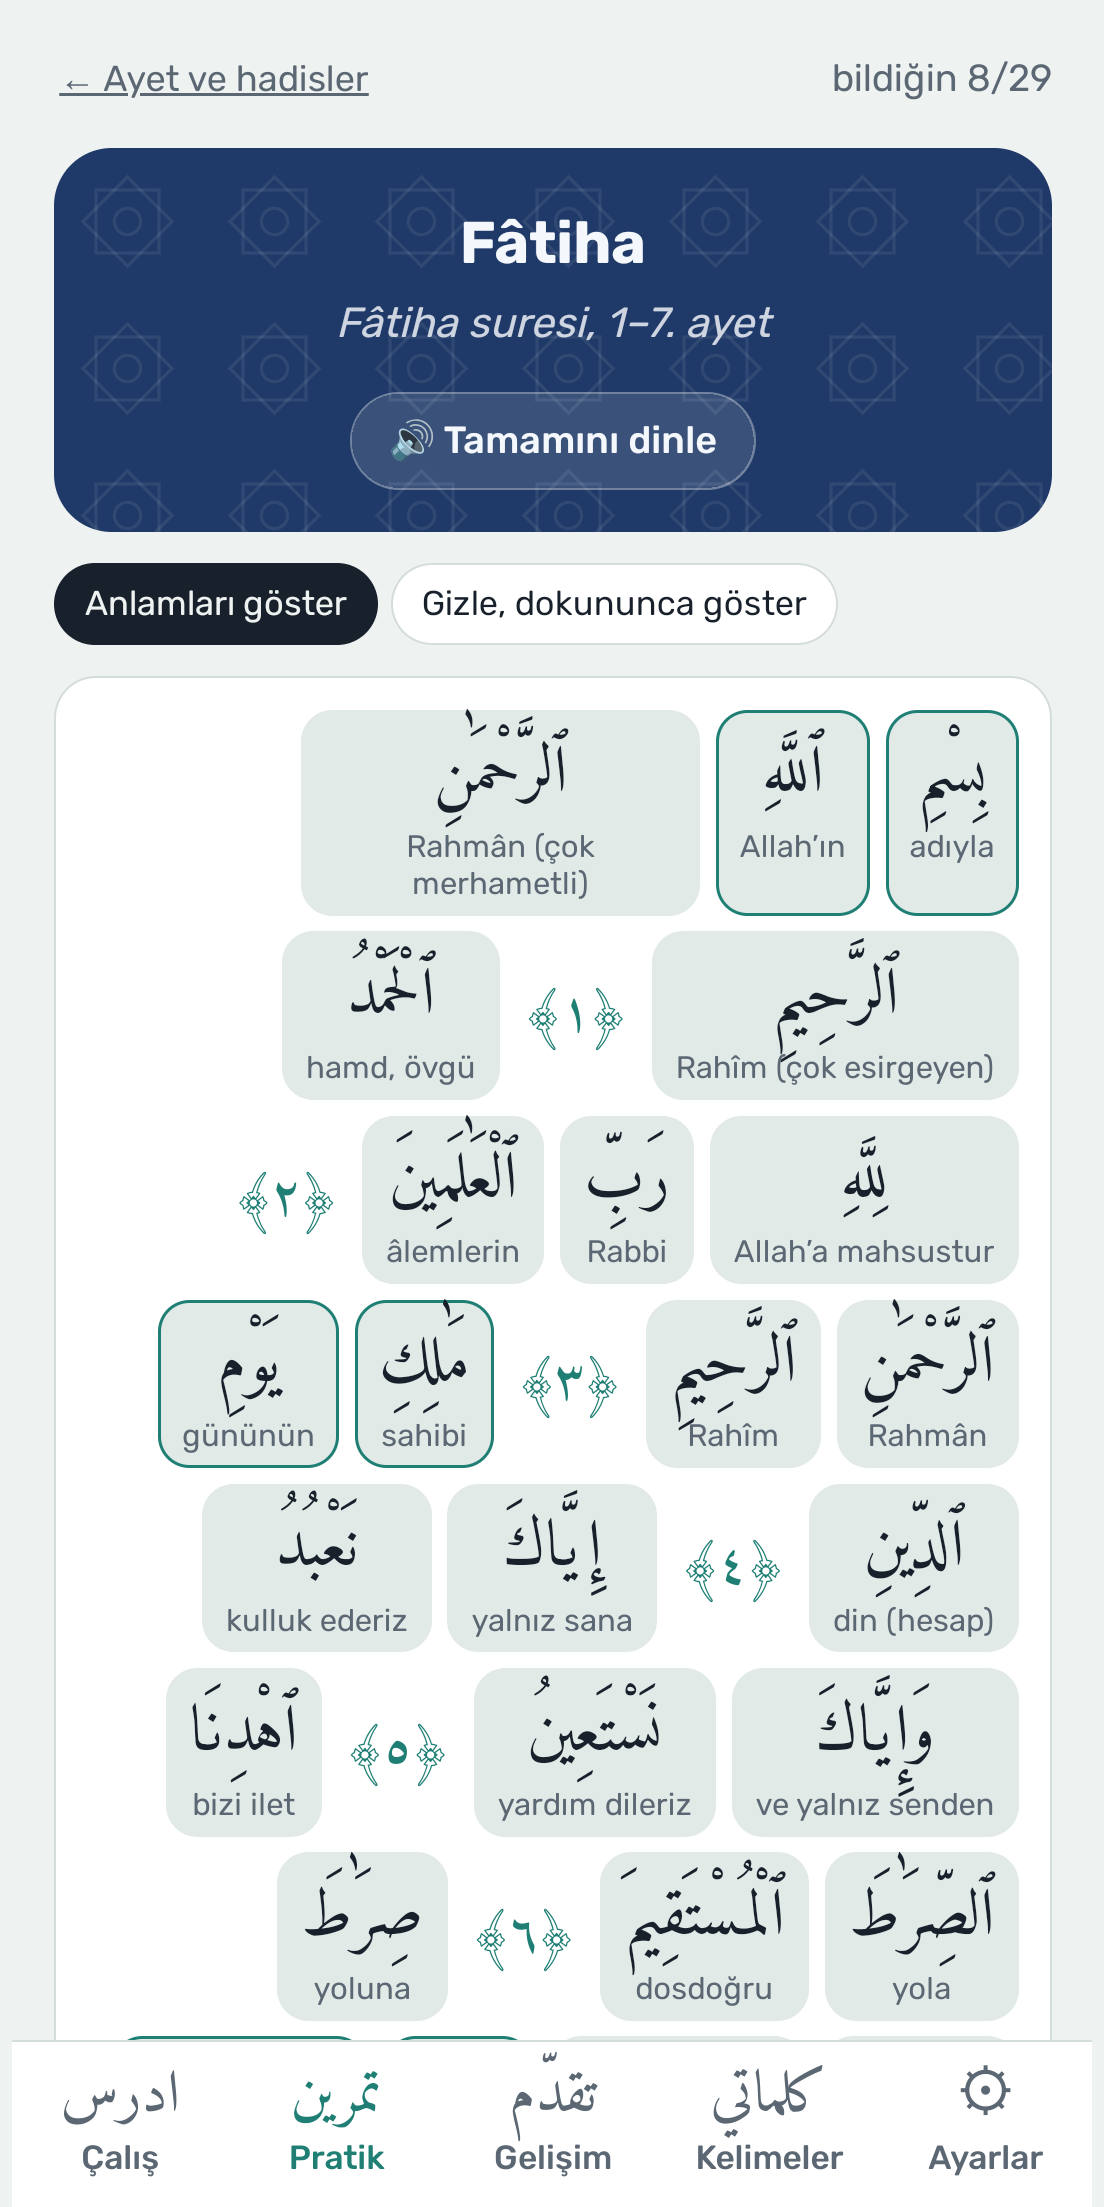
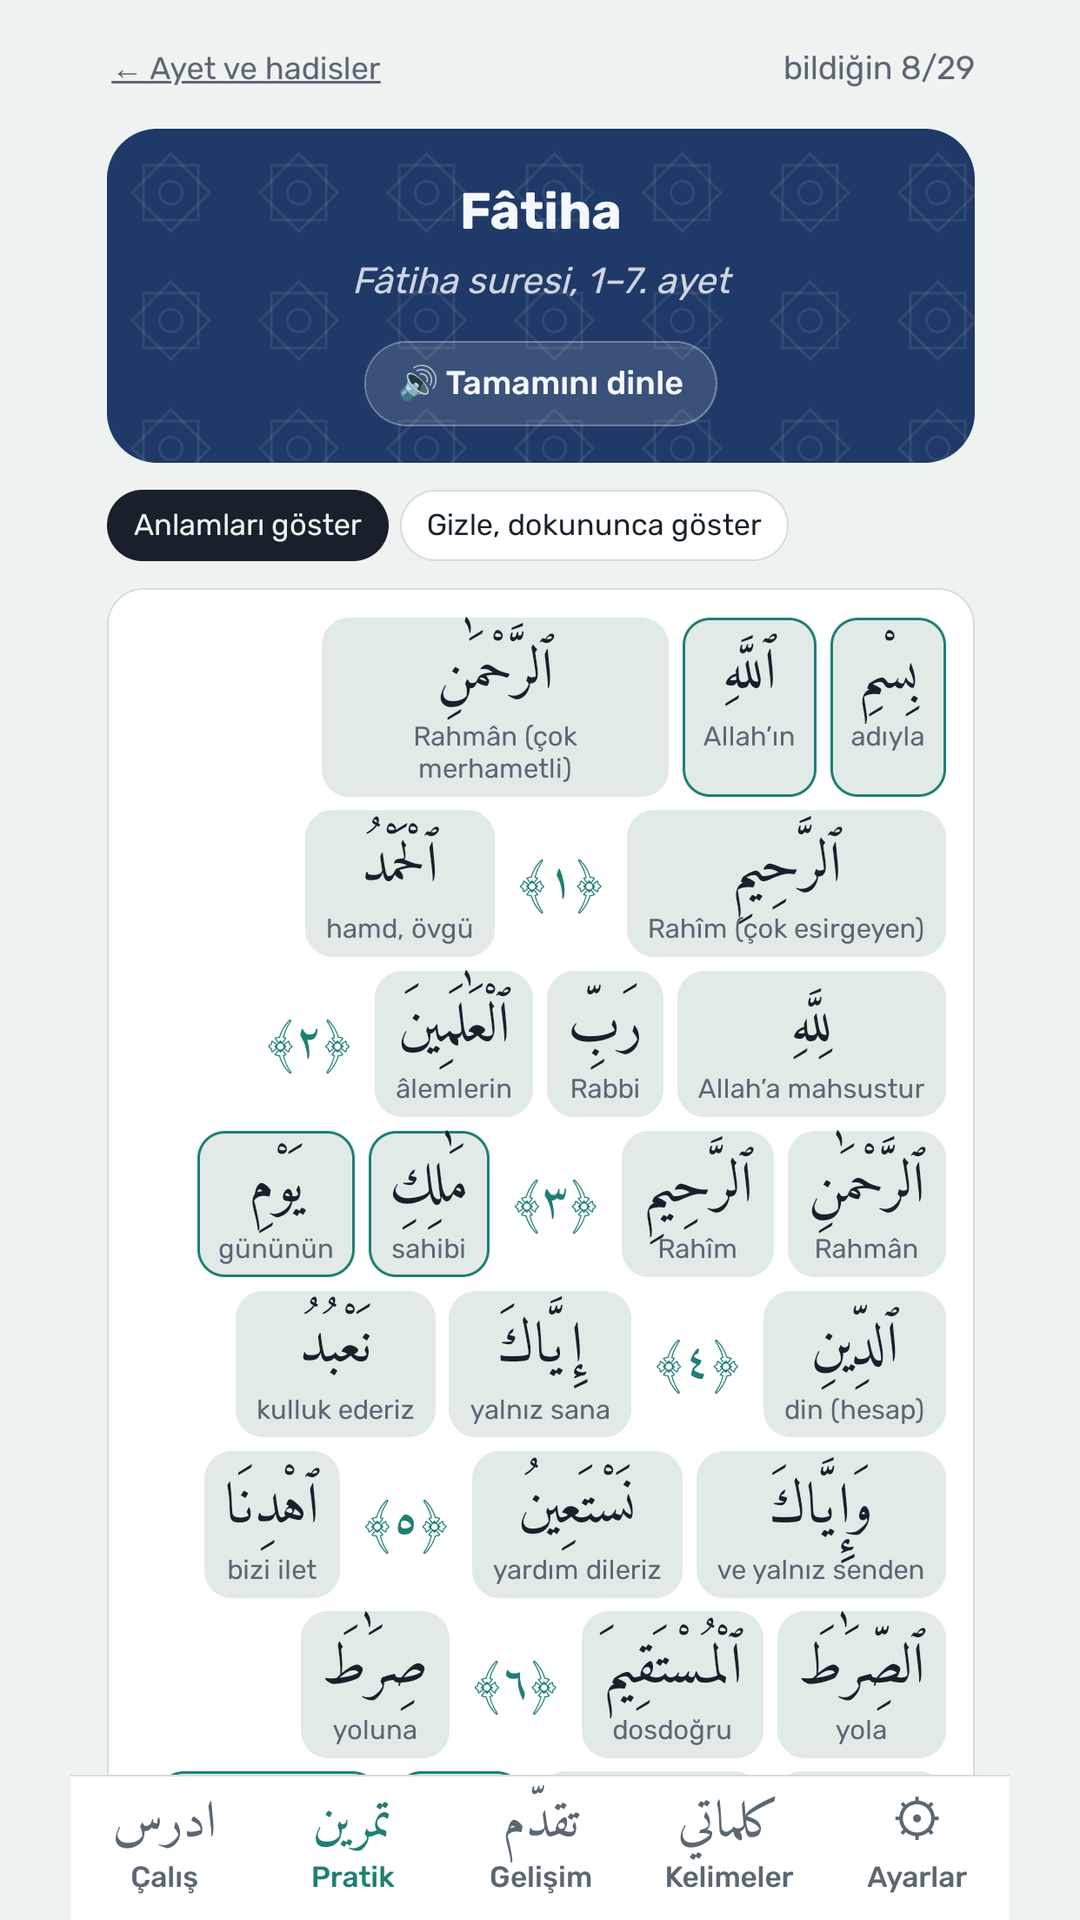
Mağaza ekran görüntüleri 9:16 (1080×1920); mağaza metni güncel sayılar

diff --git a/docs/magaza-metinleri.md b/docs/magaza-metinleri.md
@@ -21,7 +21,7 @@ PRATİK
 • Dil bilgisi ve cümle alıştırmalarında yalnızca öğrendiğin kelimeler kullanılır.
 • Fiil çekimi alıştırmaları ve tam çekim tabloları.
 • Harf dizme, üçlü çeviri (Arapça–Türkçe–İngilizce).
-• 71 ayet ve hadis kelime kelime anlamlarıyla, 12 günlük diyalog.
+• 70 ayet ve hadis kelime kelime anlamlarıyla; mealler QuranEnc ve HadeethEnc kaynaklı. 12 günlük diyalog ve sesli pratik.
 
 GELİŞİM
 • Seviyen (A1–C2), film altyazılarının ve Kur'an'ın ne kadarını anladığın.
@@ -30,7 +30,7 @@ GELİŞİM
 GİZLİLİK
 • Reklam yok, abonelik yok, hesap açmak gerekmez.
 • Hiçbir kişisel veri toplanmaz; ilerlemen yalnızca telefonunda saklanır, istersen yedek dosyası alırsın.
-• İnternetsiz çalışır.
+• İnternetsiz çalışır. İstersen kişisel çalışma saatine göre hatırlatma bildirimi.
 
 Uygulama 7 yaş ve üzeri için uygundur. Tamamen ücretsizdir: reklam, abonelik ya da uygulama içi satın alma yoktur.
 

diff --git a/docs/REHBER-PlayStore.md b/docs/REHBER-PlayStore.md
@@ -45,7 +45,7 @@ Sonra `npm run build` ve `dist/root/` içeriğini `mihenklabs.github.io` deposun
 ## 4. Google Play Console
 1. play.google.com/console → geliştirici hesabı (tek seferlik 25 USD, kimlik doğrulama). Geliştirici adı: **Mihenk Labs**.
 2. Uygulama oluştur: ad **Tilmiz – Arapça öğren**, varsayılan dil Türkçe, Uygulama, Ücretsiz.
-3. **Mağaza girişi**: kısa ve tam açıklama (`docs/magaza-metinleri.md`), `store/play-icon-512.png`, `store/feature-graphic-1024x500.png`, telefon ekran görüntüleri `store/screenshots/` (5 adet, 1104×2207; emülatörde örnek ilerlemeyle çekildi).
+3. **Mağaza girişi**: kısa ve tam açıklama (`docs/magaza-metinleri.md`), `store/play-icon-512.png`, `store/feature-graphic-1024x500.png`, telefon ekran görüntüleri `store/screenshots/` (5 adet, 1080×1920 = 9:16; emülatörde örnek ilerlemeyle çekildi).
 4. **Uygulama içeriği**:
    - Gizlilik politikası URL'si: `https://mihenklabs.github.io/tilmiz/privacy.html`
    - Reklam: Yok.
